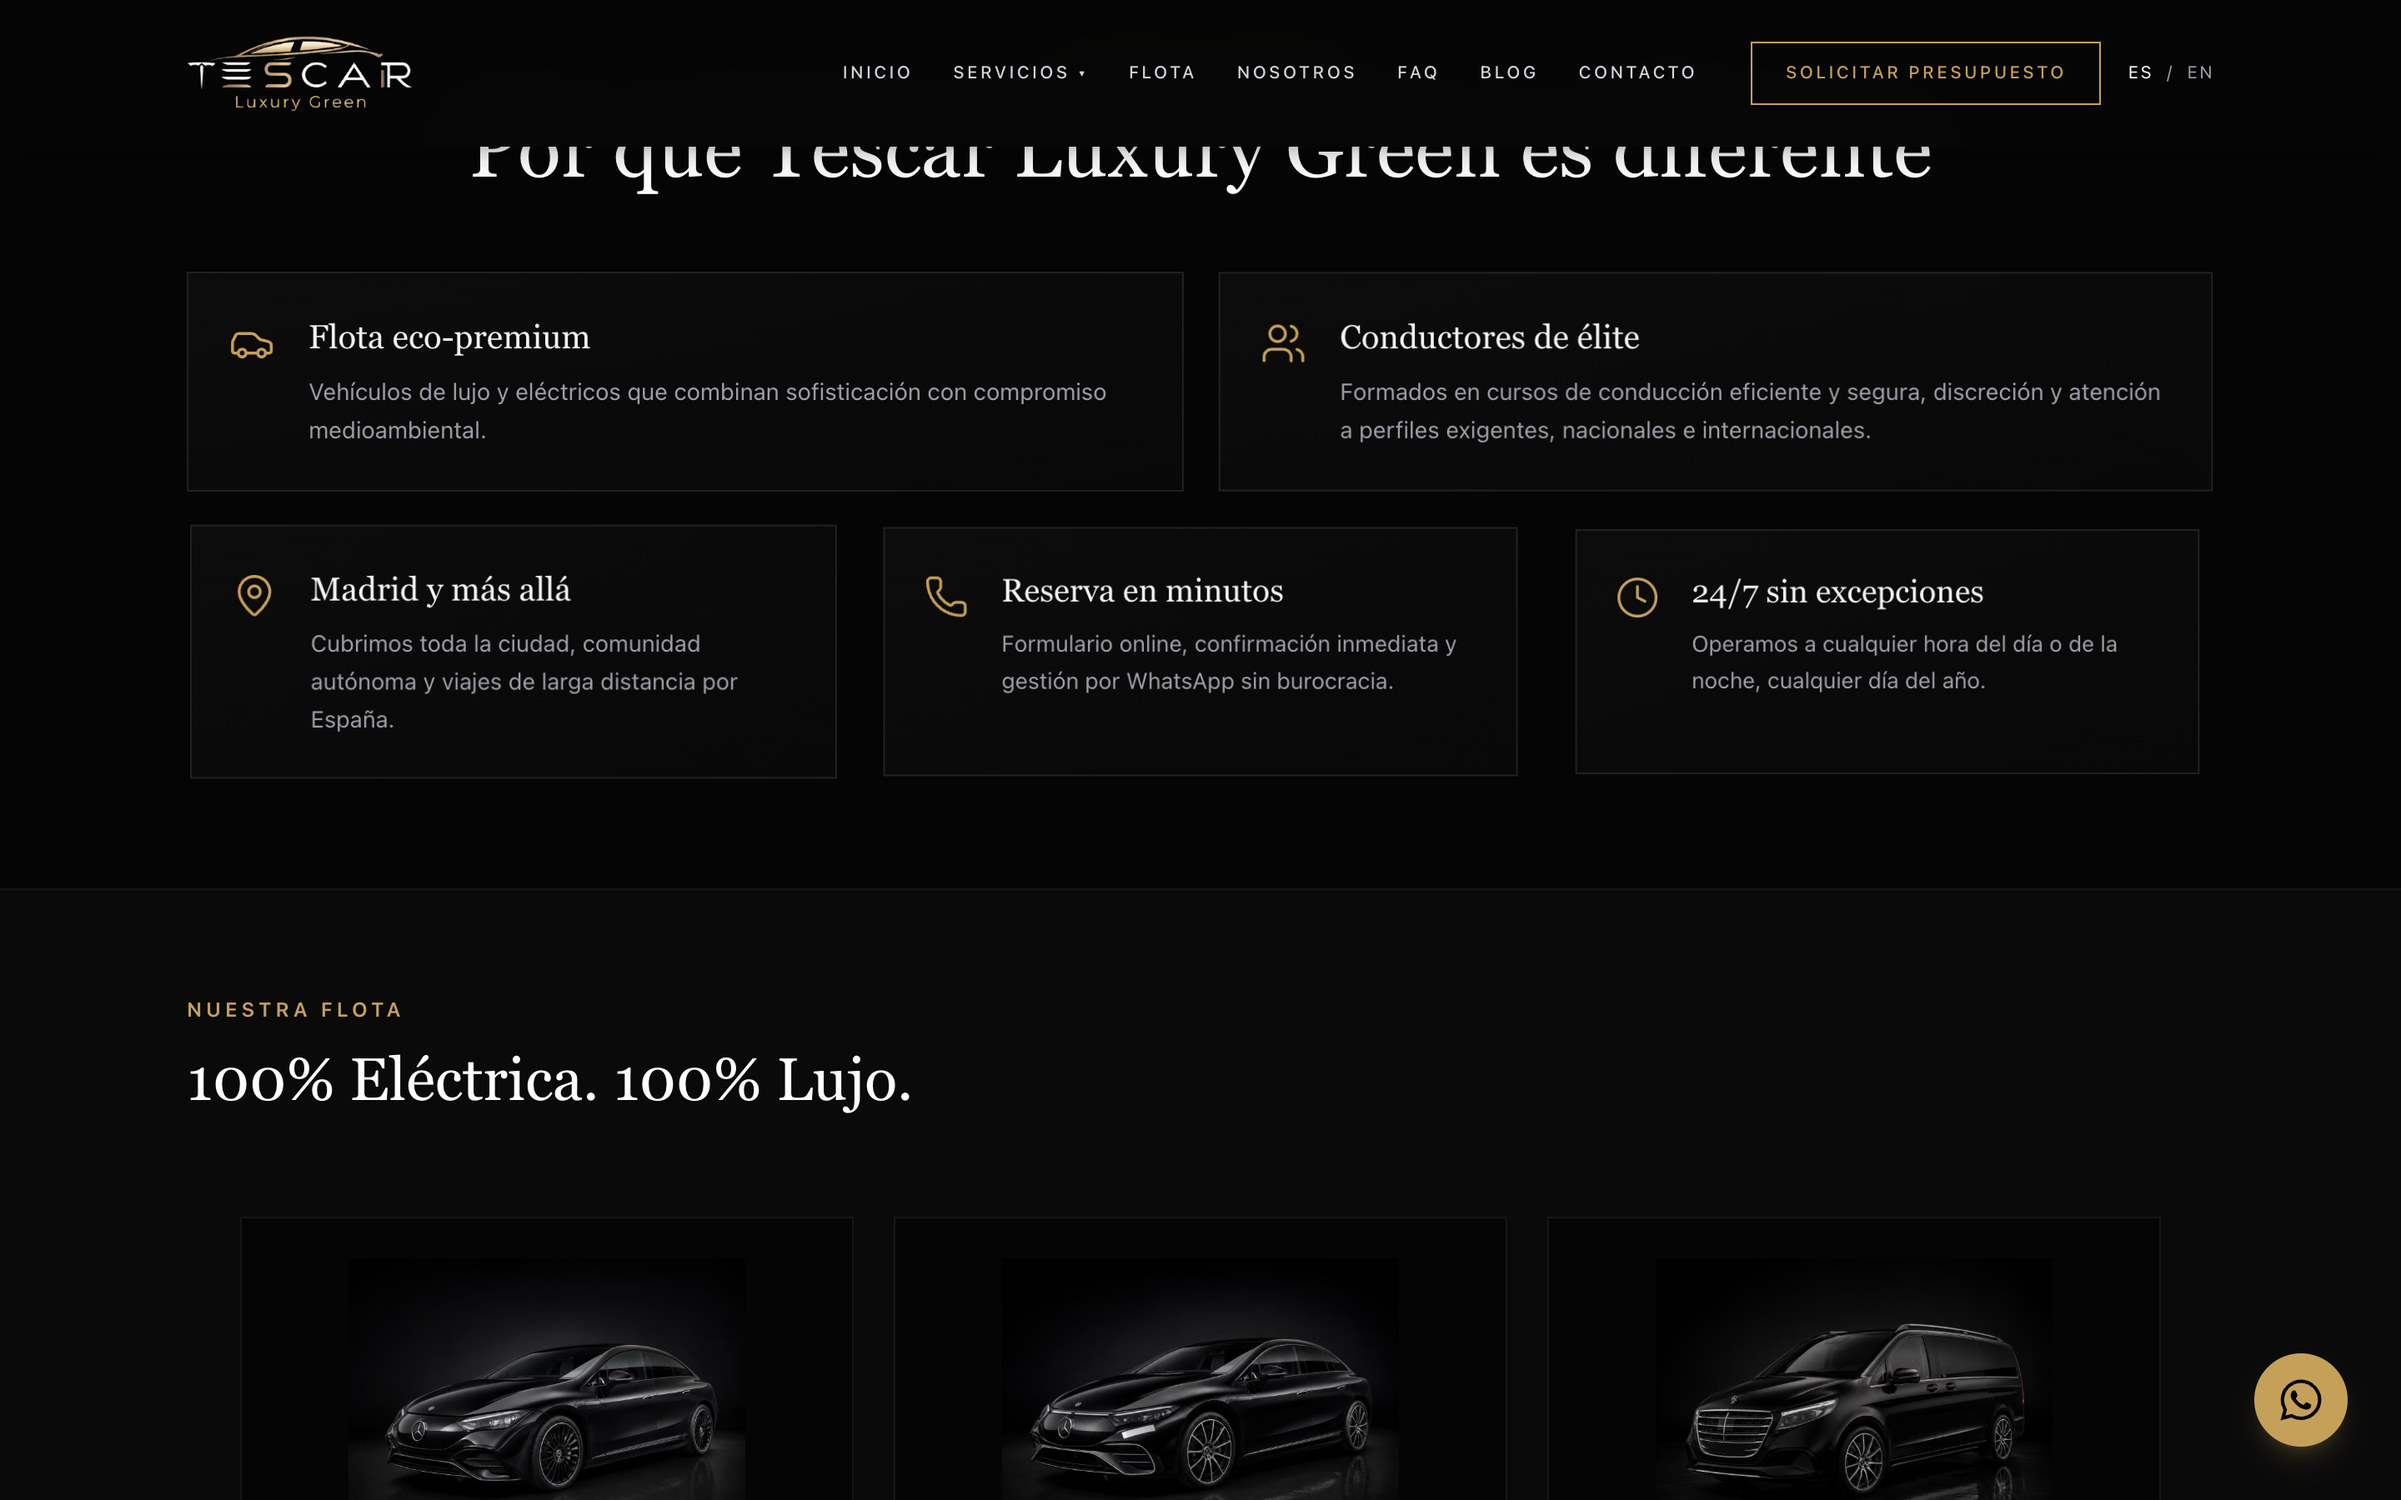
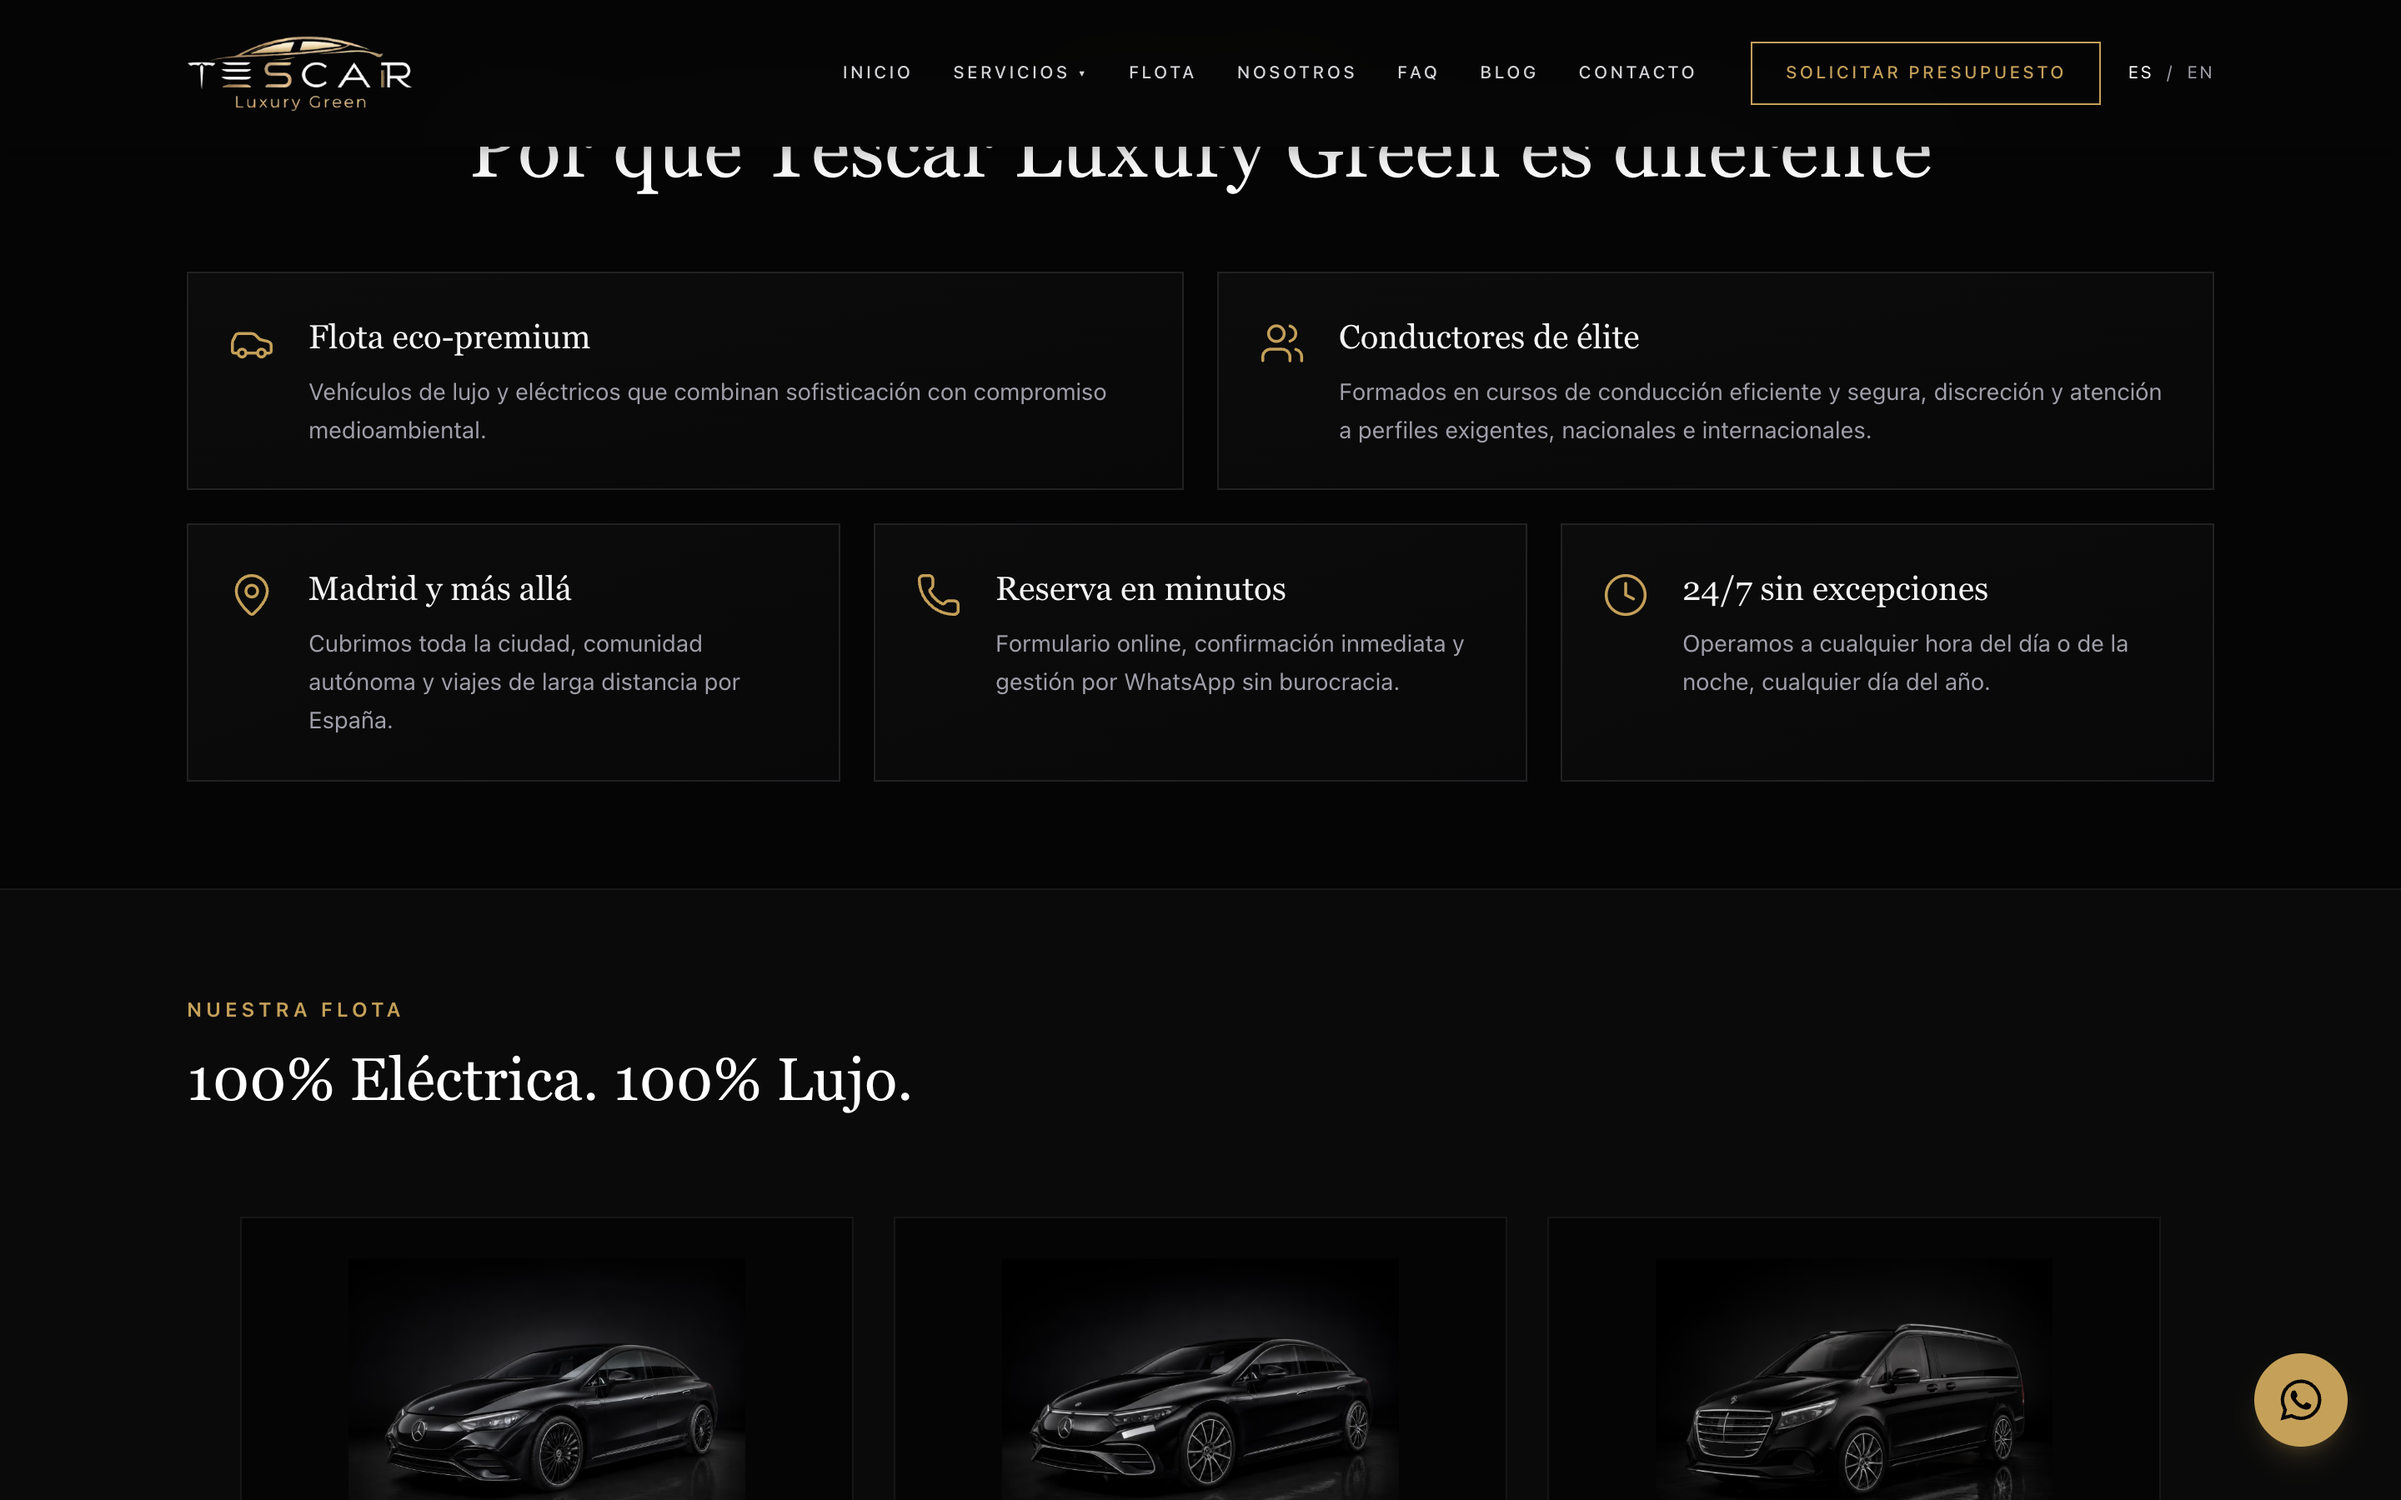
fix(portfolio): re-capture Tescar screenshots with auto-scroll for lazy-loaded images

diff --git a/scripts/capture-tescar.js b/scripts/capture-tescar.js
@@ -4,10 +4,39 @@ import puppeteer from 'puppeteer';
   const browser = await puppeteer.launch();
   const page = await browser.newPage();
   
+  // Helper function to slowly scroll down to trigger lazy loading & animations
+  const autoScroll = async (page) => {
+    await page.evaluate(async () => {
+      await new Promise((resolve) => {
+        let totalHeight = 0;
+        const distance = 100;
+        const timer = setInterval(() => {
+          const scrollHeight = document.body.scrollHeight;
+          window.scrollBy(0, distance);
+          totalHeight += distance;
+
+          if (totalHeight >= scrollHeight - window.innerHeight) {
+            clearInterval(timer);
+            resolve();
+          }
+        }, 100);
+      });
+    });
+  };
+
   // 1. Desktop - Main
   await page.setViewport({ width: 1440, height: 900, deviceScaleFactor: 2 });
   await page.goto('https://tescarluxurygreen.com', { waitUntil: 'networkidle2' });
   await page.screenshot({ path: 'public/projects/tescar/desktop.png', fullPage: false });
+
+  // Pre-scroll the entire page to trigger lazy loaded images
+  await autoScroll(page);
+  // Wait a bit extra for any slow network images to finish loading after scrolling
+  await new Promise(r => setTimeout(r, 2000));
+  
+  // Scroll back to top just in case it affects fixed headers
+  await page.evaluate(() => window.scrollTo(0, 0));
+  await new Promise(r => setTimeout(r, 1000));
 
   // 2. Desktop - Full Page
   await page.screenshot({ path: 'public/projects/tescar/desktop-full.png', fullPage: true });
@@ -17,28 +46,8 @@ import puppeteer from 'puppeteer';
   await new Promise(r => setTimeout(r, 1000));
   await page.screenshot({ path: 'public/projects/tescar/desktop-scrolled.png', fullPage: false });
 
-  // 4. Mobile captures (1 to 5)
-  await page.setViewport({ width: 390, height: 844, isMobile: true, deviceScaleFactor: 2 });
-  await page.goto('https://tescarluxurygreen.com', { waitUntil: 'networkidle2' });
-  
-  await page.screenshot({ path: 'public/projects/tescar/mobile1.png', fullPage: false });
-
-  await page.evaluate(() => { window.scrollBy(0, 800); });
-  await new Promise(r => setTimeout(r, 1000));
-  await page.screenshot({ path: 'public/projects/tescar/mobile2.png', fullPage: false });
-
-  await page.evaluate(() => { window.scrollBy(0, 800); });
-  await new Promise(r => setTimeout(r, 1000));
-  await page.screenshot({ path: 'public/projects/tescar/mobile3.png', fullPage: false });
-
-  await page.evaluate(() => { window.scrollBy(0, 800); });
-  await new Promise(r => setTimeout(r, 1000));
-  await page.screenshot({ path: 'public/projects/tescar/mobile4.png', fullPage: false });
-
-  await page.evaluate(() => { window.scrollBy(0, 800); });
-  await new Promise(r => setTimeout(r, 1000));
-  await page.screenshot({ path: 'public/projects/tescar/mobile5.png', fullPage: false });
-
+  // We only need to fix the desktop full page really, but let's just close
+  // and we won't recapture the mobiles if we don't have to, but running them is fast.
   await browser.close();
-  console.log("Tescar Screenshots captured!");
+  console.log("Tescar Screenshots (with auto-scroll) captured!");
 })();
